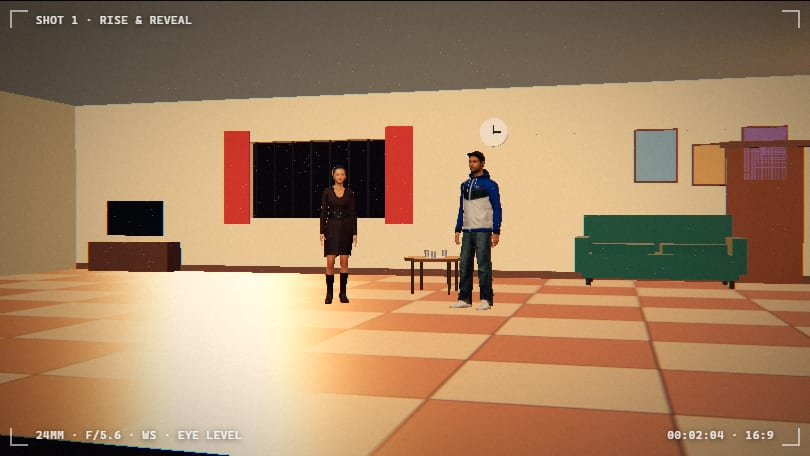
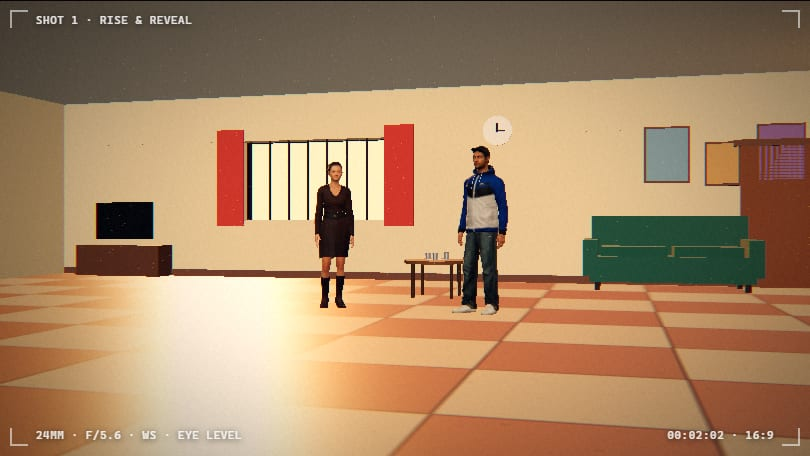
Fifth set (classroom) with blackboard, bench-desks, teacher's table, ceiling fan; daylight behind the windows of the living room and classroom; gallery pictures

diff --git a/src/app.js b/src/app.js
@@ -157,7 +157,7 @@ function canvasTex(w, h, draw) { const c = document.createElement('canvas'); c.w
 
 // lights
 const FX = [], BULBS = [], GLASS = [], SHAFTS = [];
-const SETG = {}; let CUR = null; for (const k of ['stall', 'street', 'terrace', 'living']) { SETG[k] = new T.Group(); scene.add(SETG[k]); }
+const SETG = {}; let CUR = null; for (const k of ['stall', 'street', 'terrace', 'living', 'classroom']) { SETG[k] = new T.Group(); scene.add(SETG[k]); }
 const hemi = new T.HemisphereLight(0xffd9b0, 0x1a1210, .42); scene.add(hemi);
 const sun = new T.DirectionalLight(0xffb066, 4.2); sun.position.set(-7, 4.5, -12); sun.target.position.set(0, .8, 1); scene.add(sun.target); sun.castShadow = true;
 sun.shadow.mapSize.set(2048, 2048); Object.assign(sun.shadow.camera, { left: -11, right: 11, top: 9, bottom: -9, near: 1, far: 40 }); sun.shadow.bias = -.0004; sun.shadow.normalBias = .02; scene.add(sun);
@@ -219,7 +219,7 @@ for (const [x, z, r] of [[5.6, -2.4, .3], [6.1, -1.7, -.2], [5.8, -2.1, .1]]) { 
 CUR = null;
 
 /* ---------- more sets: each lives in its own group and one is shown at a time ---------- */
-const SETS = { stall: { label: 'Chai stall' }, street: { label: 'Village street' }, terrace: { label: 'Terrace' }, living: { label: 'Living room' } };
+const SETS = { stall: { label: 'Chai stall' }, street: { label: 'Village street' }, terrace: { label: 'Terrace' }, living: { label: 'Living room' }, classroom: { label: 'Classroom' } };
 let curSet = 'stall';
 const gmesh = (par, geo, m, x, y, z) => { const o = new T.Mesh(geo, m); o.position.set(x, y, z); o.castShadow = o.receiveShadow = true; par.add(o); return o; };
 function lampAt(x, z, h) {
@@ -346,6 +346,7 @@ function buildLiving() {
   add(new T.BoxGeometry(3.8, 1.4, .3), wall, -6.1, 1.7, -4.2); add(new T.BoxGeometry(3.4, 1.4, .3), wall, .3, 1.7, -4.2); add(new T.BoxGeometry(6, 1.4, .3), wall, 5, 1.7, -4.2);
   add(new T.BoxGeometry(.3, 3.2, 9), wall, -8, 1.6, .3); add(new T.BoxGeometry(16, .12, .34), trim, 0, .06, -4.2);
   add(new T.PlaneGeometry(16, 12), mat(0xefe6d2, { roughness: 1 }), 0, 3.2, 0, false).rotation.x = Math.PI / 2; // ceiling: one-sided, so it is invisible from above (crane and top-down shots)
+  { const sky = new T.MeshBasicMaterial({ color: 0xbfd8ff }); GLASS.push(sky); add(new T.PlaneGeometry(2.8, 1.4), sky, -2.8, 1.7, -4.5, false); }
   for (let i = 0; i < 8; i++) add(new T.BoxGeometry(.03, 1.4, .03), dark, -4.0 + i * .36, 1.7, -4.1, false);
   for (const cx of [-4.35, -1.25]) add(new T.BoxGeometry(.5, 1.7, .04), mat(0xb5483c, { roughness: 1 }), cx, 1.75, -4.0);
   add(new T.BoxGeometry(1.1, 2.1, .08), mat(0x7a4a2c), 4.6, 1.05, -4.0); add(new T.BoxGeometry(1.3, .1, .14), trim, 4.6, 2.15, -4.0);
@@ -365,7 +366,40 @@ function buildLiving() {
   const pl = new T.PointLight(0xffc27a, 4, 11, 1.5); pl.position.set(6.8, 1.65, -2.4); CUR.add(pl); BULBS.push(pl);
   CUR = null;
 }
-buildStreet(); buildTerrace(); buildLiving();
+function buildClassroom() {
+  CUR = SETG.classroom;
+  const floor = canvasTex(1024, 1024, (g, w, h) => { g.fillStyle = '#9a9488'; g.fillRect(0, 0, w, h); for (let i = 0; i < 1600; i++) { const v = 120 + (i * 41) % 70; g.fillStyle = `rgba(${v},${v - 6},${v - 14},.4)`; g.fillRect((i * 307) % w, (i * 193) % h, 2 + i % 6, 2 + i % 4); } g.strokeStyle = 'rgba(50,46,40,.35)'; g.lineWidth = 3; for (let i = 0; i <= 4; i++) { g.beginPath(); g.moveTo(i * w / 4, 0); g.lineTo(i * w / 4, h); g.moveTo(0, i * h / 4); g.lineTo(w, i * h / 4); g.stroke(); } });
+  floor.wrapS = floor.wrapT = T.RepeatWrapping; floor.repeat.set(2, 2);
+  add(new T.PlaneGeometry(16, 12), mat(0xffffff, { map: floor, roughness: .5 }), 0, 0, 0, false).rotation.x = -Math.PI / 2;
+  const wall = mat(0xe3dcc3, { roughness: .95 }), dado = mat(0x3f7f93, { roughness: .9 }), wood = mat(0x6b4a30), dark = mat(0x1a1410);
+  /* back wall: two barred windows, a blackboard between them and a teal dado along the bottom */
+  add(new T.BoxGeometry(16, .9, .3), dado, 0, .45, -4.2); add(new T.BoxGeometry(16, .9, .3), wall, 0, 2.95, -4.2);
+  for (const [cx, w] of [[-6.6, 2.8], [.05, 5.9], [6.65, 2.7]]) add(new T.BoxGeometry(w, 1.4, .3), wall, cx, 1.6, -4.2);
+  for (const cx of [-4.05, 4.15]) { const sky = new T.MeshBasicMaterial({ color: 0xbfd8ff }); GLASS.push(sky); add(new T.PlaneGeometry(2.3, 1.4), sky, cx, 1.6, -4.5, false); }
+  for (const cx of [-4.05, 4.15]) for (let i = 0; i < 7; i++) add(new T.BoxGeometry(.03, 1.4, .03), dark, cx - .9 + i * .3, 1.6, -4.1, false);
+  add(new T.BoxGeometry(.3, 3.2, 9), wall, -8, 1.6, .3); add(new T.BoxGeometry(.3, .9, 9), dado, -8, .45, .3);
+  add(new T.PlaneGeometry(16, 12), mat(0xefe9d8, { roughness: 1 }), 0, 3.4, 0, false).rotation.x = Math.PI / 2;
+  const board = canvasTex(1024, 320, (g, w, h) => { g.fillStyle = '#2f4a3e'; g.fillRect(0, 0, w, h); for (let i = 0; i < 400; i++) { g.fillStyle = `rgba(255,255,255,${.015 + (i % 4) * .008})`; g.fillRect((i * 97) % w, (i * 53) % h, 60 + i % 90, 3); } g.fillStyle = 'rgba(240,240,230,.9)'; g.font = 'bold 54px sans-serif'; g.fillText('Camera moves', 60, 100); g.font = '40px sans-serif'; g.fillText('1. Push in   2. Pan   3. Tilt   4. Orbit', 60, 180); g.beginPath(); g.moveTo(60, 230); g.bezierCurveTo(300, 190, 600, 280, 900, 230); g.lineWidth = 6; g.strokeStyle = 'rgba(255,220,120,.85)'; g.stroke(); });
+  add(new T.BoxGeometry(3.7, 1.3, .06), wood, -.5, 1.75, -4.02); add(new T.PlaneGeometry(3.5, 1.1), new T.MeshStandardMaterial({ map: board, roughness: .9 }), -.5, 1.75, -3.98, false); add(new T.BoxGeometry(3.5, .06, .1), wood, -.5, 1.1, -3.95);
+  /* posters */
+  [[-6.6, 1.9, .8, 1.0, 0xd9a43a], [-5.6, 1.9, .7, .9, 0x6a9a5a], [5.9, 1.9, .9, 1.1, 0xb5483c]].forEach(([px, py, pw, ph, c]) => { add(new T.BoxGeometry(pw, ph, .02), mat(c, { roughness: .9 }), px, py, -4.03, false); });
+  /* teacher's table with a globe */
+  const tb = new T.Group(); tb.position.set(3.2, 0, -3.0); CUR.add(tb);
+  gmesh(tb, new T.BoxGeometry(1.3, .05, .6), wood, 0, .76, 0); for (const [px, pz] of [[-.58, -.25], [.58, -.25], [-.58, .25], [.58, .25]]) gmesh(tb, new T.BoxGeometry(.05, .74, .05), wood, px, .37, pz);
+  gmesh(tb, new T.SphereGeometry(.14, 14, 10), mat(0x3a78b5, { roughness: .6 }), .35, .96, 0); gmesh(tb, new T.CylinderGeometry(.03, .06, .06, 8), dark, .35, .81, 0); gmesh(tb, new T.BoxGeometry(.3, .03, .22), mat(0xf4f1e8), -.3, .8, .02);
+  /* student bench-desks in rows, kept clear of the centre where the actors stand */
+  const deskAt = (x, z, ry = 0) => { const d = new T.Group(); d.position.set(x, 0, z); d.rotation.y = ry; CUR.add(d); gmesh(d, new T.BoxGeometry(1.2, .05, .42), wood, 0, .72, 0); gmesh(d, new T.BoxGeometry(1.2, .04, .24), wood, 0, .44, .42);
+    for (const [px, pz] of [[-.55, -.15], [.55, -.15], [-.55, .15], [.55, .15]]) gmesh(d, new T.BoxGeometry(.04, .72, .04), dark, px, .36, pz); for (const px of [-.55, .55]) gmesh(d, new T.BoxGeometry(.04, .44, .04), dark, px, .22, .42); return d; };
+  for (const x of [-6, -4.4]) for (const z of [-2.8, -1.2]) deskAt(x, z);
+  for (const x of [4.4, 6]) for (const z of [-1.4, .2]) deskAt(x, z);
+  /* ceiling fan and tube lights */
+  const fan = new T.Group(); fan.position.set(0, 3.0, -.6); CUR.add(fan); gmesh(fan, new T.CylinderGeometry(.02, .02, .4, 6), dark, 0, .2, 0); gmesh(fan, new T.CylinderGeometry(.12, .12, .08, 12), dark, 0, 0, 0);
+  for (let i = 0; i < 3; i++) { const b = gmesh(fan, new T.BoxGeometry(.62, .015, .13), mat(0xd8d4c8), 0, -.02, 0); b.position.x = Math.cos(i * 2.094) * .38; b.position.z = Math.sin(i * 2.094) * .38; b.rotation.y = -i * 2.094; }
+  for (const x of [-4.5, 4.5]) add(new T.BoxGeometry(1.4, .04, .1), new T.MeshBasicMaterial({ color: new T.Color(0xf4f6ff).multiplyScalar(3) }), x, 3.36, -1.5, false);
+  const pl = new T.PointLight(0xfff2dc, 3.2, 13, 1.4); pl.position.set(0, 3.0, -1.2); CUR.add(pl); BULBS.push(pl);
+  CUR = null;
+}
+buildStreet(); buildTerrace(); buildLiving(); buildClassroom();
 function applySet(name) { curSet = SETS[name] ? name : 'stall'; for (const k in SETG) SETG[k].visible = k === curSet; }
 
 // actors
@@ -1443,9 +1477,9 @@ async function runSelfTest() {
   t('a walker follows the route at a steady pace and faces the way they move', () => { const sh = newShot({ actionA: 'walk', placeA: { x: 0, z: 0 }, routeA: [{ x: 2, z: 0 }, { x: 2, z: 2 }] }); const p0 = subjPos(sh, 0), p1 = subjPos(sh, 1), pm = subjPos(sh, .25), pn = subjPos(sh, .75); return near(p0.pos.A.x, 0) && near(p1.pos.A.x, 2) && near(p1.pos.A.z, 2) && near(pm.pos.A.x, 1) && near(pm.pos.A.z, 0) && near(pm.head.A, Math.PI / 2) && near(pn.pos.A.z, 1) && near(pn.head.A, 0); });
   t('a route is ignored when the actor is not walking', () => { const sh = newShot({ actionA: 'sit', routeA: [{ x: 3, z: 3 }] }); return near(subjPos(sh, 1).pos.A.x, HOME.A.x) && subjPos(sh, 1).walkers.length === 0; });
   t('the blocking diagram carries walk routes', () => { $('#ta').value = JSON.stringify({ shots: [{ actionA: 'walk', placeA: { x: -2, z: 0 }, routeA: [{ x: 0, z: 2 }, { x: 3, z: 2 }] }] }); applyCode(); const a = blockingDoc().shots[0].actors[0]; return a.route && a.route.length === 3 && near(a.route[2][0], 3); });
-  t('sets: four exist, only the chosen one is shown, unknown falls back to the chai stall', () => { const names = Object.keys(SETS); if (names.join() !== 'stall,street,terrace,living') return false; for (const k of names) { applySet(k); if (!Object.keys(SETG).every(g => SETG[g].visible === (g === k))) return false; } applySet('nope'); const ok = SETG.stall.visible && !SETG.street.visible; $('#ta').value = JSON.stringify({ set: 'street', shots: [{}] }); applyCode(); const a = P.set; $('#ta').value = JSON.stringify({ set: 'moon', shots: [{}] }); applyCode(); return ok && a === 'street' && P.set === 'stall'; });
+  t('sets: five exist, only the chosen one is shown, unknown falls back to the chai stall', () => { const names = Object.keys(SETS); if (names.join() !== 'stall,street,terrace,living,classroom') return false; for (const k of names) { applySet(k); if (!Object.keys(SETG).every(g => SETG[g].visible === (g === k))) return false; } applySet('nope'); const ok = SETG.stall.visible && !SETG.street.visible; $('#ta').value = JSON.stringify({ set: 'street', shots: [{}] }); applyCode(); const a = P.set; $('#ta').value = JSON.stringify({ set: 'moon', shots: [{}] }); applyCode(); return ok && a === 'street' && P.set === 'stall'; });
   t('the set is saved in the project and survives a round trip', () => { $('#ta').value = JSON.stringify({ schemaVersion: SCHEMA, set: 'terrace', shots: [{}] }); applyCode(); loadCode(); const o = JSON.parse($('#ta').value); applyCode(); return o.set === 'terrace' && P.set === 'terrace' && $('#set').value === 'terrace' && SETG.terrace.visible; });
-  t('every set has its own floor and dressing and the stall keeps its lights', () => ['stall', 'street', 'terrace', 'living'].every(k => SETG[k].children.length > 8) && BULBS.length >= 5);
+  t('every set has its own floor and dressing and the stall keeps its lights', () => ['stall', 'street', 'terrace', 'living', 'classroom'].every(k => SETG[k].children.length > 8) && BULBS.length >= 5);
   t('duplicating a shot does not share its walk route', () => { $('#ta').value = JSON.stringify({ shots: [{ actionA: 'walk', routeA: [{ x: 1, z: 1 }] }] }); applyCode(); sel = 0; $('#bDup').click(); P.shots[0].routeA.push({ x: 2, z: 2 }); return P.shots.length === 2 && P.shots[1].routeA.length === 1; });
   t('costumes: unknown ids fall back to plain clothes and the choice survives a round trip', () => { const n = normOutfit({ A: 'turban', B: 'nope' }); if (n.A !== 'turban' || n.B !== 'plain' || normOutfit(null).A !== 'plain') return false; $('#ta').value = JSON.stringify({ schemaVersion: SCHEMA, outfit: { A: 'garland', B: 'umbrella' }, shots: [{}] }); applyCode(); loadCode(); const o = JSON.parse($('#ta').value); return o.outfit.A === 'garland' && o.outfit.B === 'umbrella' && P.outfit.B === 'umbrella'; });
   t('placement survives a project round trip', () => { $('#ta').value = JSON.stringify({ schemaVersion: SCHEMA, shots: [{ placeA: { x: 1.5, z: 2 }, faceA: 40 }] }); applyCode(); loadCode(); const o = JSON.parse($('#ta').value).shots[0]; return o.placeA.x === 1.5 && o.placeA.z === 2 && o.faceA === 40 && o.placeB === null; });

diff --git a/src/i18n.js b/src/i18n.js
@@ -197,6 +197,7 @@ const R = [
   ['Chai stall', 'தேநீர்க் கடை', 'चाय की दुकान'],
   ['Village street', 'கிராமத்துத் தெரு', 'गाँव की गली'],
   ['Terrace', 'மொட்டை மாடி', 'छत'],
+  ['Classroom', 'வகுப்பறை', 'कक्षा'],
   ['Living room', 'வரவேற்பறை', 'बैठक'],
   ['Costume', 'உடை', 'पोशाक'],
   ['Plain clothes', 'சாதாரண உடை', 'सादे कपड़े'],

diff --git a/README.md b/README.md
@@ -63,7 +63,7 @@ flowchart LR
 | **Real lens behaviour** | Focal length 14 to 135 mm, aperture f/1.4 to f/11 driving depth of field, plus bloom, motion blur and film grain. |
 | **Camera sensors** | Super 35, Full frame, APS-C, Micro Four Thirds, 1-inch. Lenses show their full-frame equivalent. |
 | **Cinematic looks** | Golden hour, Teal and orange, Night, Noir, Neutral, plus time-of-day looks (dawn, noon, dusk), with window light and sun shafts. |
-| **Four sets** | Chai stall, village street (houses, lamp post, auto-rickshaw, scooter, bicycle), a rooftop terrace (water tank, clothesline, rope cot, brass pots, bucket) and a tiled living room (barred window with curtains, sofa, TV, tea table with steel tumblers, wall clock, standing lamp). The set is saved in the project. |
+| **Five sets** | Chai stall, village street (houses, lamp post, auto-rickshaw, scooter, bicycle), a rooftop terrace (water tank, clothesline, rope cot, brass pots, bucket), a tiled living room (barred window with curtains, sofa, TV, tea table with steel tumblers, wall clock, standing lamp) and a school classroom (blackboard, bench-desks, teacher's table with a globe, ceiling fan, barred windows). The set is saved in the project. |
 | **Costumes** | Dress each actor with a topi and glasses, turban, student bag, marigold garland, dupatta or umbrella. |
 | **Walk paths** | Click up to six points on the set view and the actor walks through them, facing the way they move. The route shows in the set view and the blocking diagram. |
 | **Tamil, Hindi and English** | Switch the whole interface between English, தமிழ் and हिन्दी with the language menu. Titles, shot names and notes in any script also come out correctly in the PDFs. |
@@ -117,8 +117,8 @@ Pick a set from the menu in the top bar, dress each actor in the cast dialog, an
 | <img src="docs/images/set-street.jpg" alt="Village street set" width="100%"> | <img src="docs/images/set-terrace.jpg" alt="Terrace set" width="100%"> |
 
 <p align="center">
-  <img src="docs/images/set-living.jpg" alt="Living room set with a tiled floor, sofa, TV, tea table and a barred window" width="60%"><br>
-  <sub>Living room</sub>
+  <img src="docs/images/set-living.jpg" alt="Living room set with a tiled floor, sofa, TV, tea table and a barred window" width="48%"> <img src="docs/images/set-classroom.jpg" alt="Classroom set with a blackboard, bench-desks, a teacher's table and a ceiling fan" width="48%"><br>
+  <sub>Living room and classroom</sub>
 </p>
 
 ### Choose your actors
